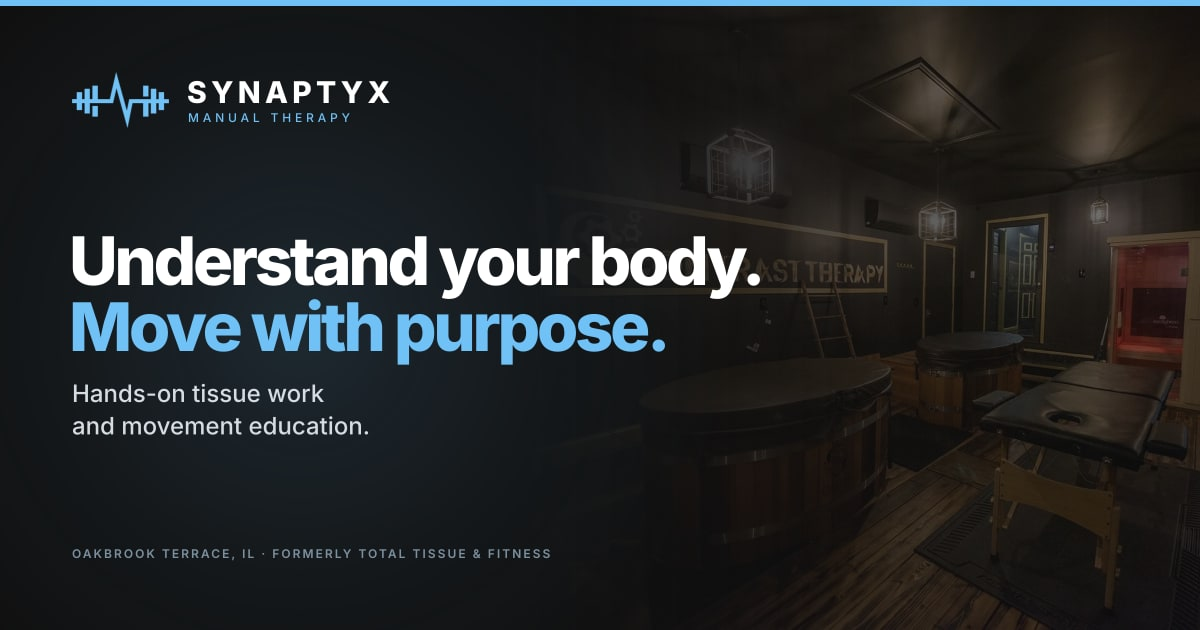
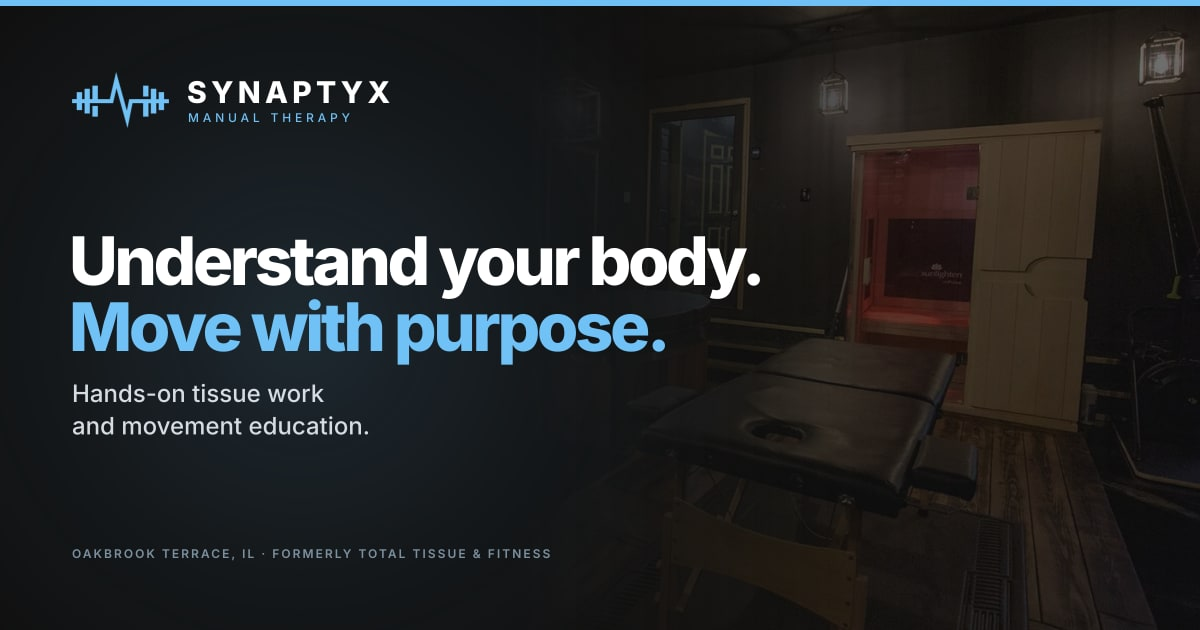
Give Manual Therapy its own treatment-table photo
- Crop the recovery-space photo to the treatment table (no wall sign) for the Manual Therapy service card, page header, and link card
- Move the Contrast Therapy sign photo to the Contrast Therapy service card

diff --git a/src/data/site.ts b/src/data/site.ts
@@ -38,6 +38,7 @@ export const media = {
   socialMentorship: '/images/synaptyx/social-mentorship.jpg',
   socialBook: '/images/synaptyx/social-book.jpg',
   facility: '/images/optimized/recovery-space.webp',
+  treatmentTable: '/images/optimized/treatment-table.webp',
   plunge: '/images/optimized/plunge.webp',
   sauna: '/images/optimized/sauna.webp',
   poster: '/images/6625ab15d06cde3819d95ae7_jb-total-background-video-poster-00001.jpg',
@@ -60,7 +61,7 @@ export const services = [
     description:
       'Individual assessment, hands-on soft tissue work, and movement education. An approach built around your body and your goals.',
     href: '/manual-therapy/',
-    image: media.facility,
+    image: media.treatmentTable,
     tags: ['Soft tissue work', 'Movement education'],
   },
   {
@@ -71,7 +72,7 @@ export const services = [
     description:
       'Cold plunge, hot plunge, and infrared sauna in our Oakbrook Terrace recovery space. A dedicated hour to complement your tissue work.',
     href: '/contrast-therapy/',
-    image: media.sauna,
+    image: media.facility,
     tags: ['Cold plunge', 'Hot plunge', 'Infrared sauna'],
   },
   {

diff --git a/docs/CONTENT_SOURCE_MAP.md b/docs/CONTENT_SOURCE_MAP.md
@@ -2,54 +2,54 @@
 
 This file separates evidence from editorial decisions. “Captured” means present in the September 8, 2026 Webflow snapshot; it does not mean approved for launch.
 
-| Target content key                        | Target surface                       | Captured source                                                                  | Status / editorial instruction                                                                                 | Owner approval needed                   |
-| ----------------------------------------- | ------------------------------------ | -------------------------------------------------------------------------------- | -------------------------------------------------------------------------------------------------------------- | --------------------------------------- |
-| `site.name`                               | Global                               | User decision 2026-09-08 (ADR-008)                                               | “Synaptyx Manual Therapy”, with “formerly Total Tissue & Fitness” notices                                      | Confirm legal name and footer form      |
-| `site.logo`                               | Header/footer/social                 | Synaptyx mark from synaptyxperformance.com/logo.png                              | Synaptyx mark + “SYNAPTYX / Manual Therapy” lockup; gold logo only as legacy mark                              | Partner approval of lockup and rights   |
-| `site.colors`                             | Global tokens                        | Synaptyx site CSS (`#70c1f6`, `#101010`, `#7c91a0`)                              | Synaptyx blue/near-black/grey; gold retired except in legacy notices                                           | Contrast validated; partner approval    |
-| `site.designReference`                    | Layout/components                    | Synaptyx Health & Performance site                                               | Sibling design system: Inter, blue accent, dark surfaces, compact header lockup                                | Pattern-by-pattern design review        |
-| `site.legacyNotices`                      | Announcement, home, footer, JSON-LD  | User request 2026-09-08                                                          | Keep “formerly Total Tissue & Fitness” notices until the owner retires them                                    | Owner decides retirement date           |
-| `site.location`                           | Global/SEO                           | Owner confirmation 2026-09-22; public Vagaro listing                             | Oakbrook Terrace visit location; Oswego is billing only                                                        | Confirm suite/arrival details           |
-| `site.address`, `site.phone`              | Booking/contact/structured data      | Owner-confirmed address; public Vagaro listing                                   | 17W755 Butterfield Road, Oakbrook Terrace, IL 60181; public business phone                                     | Owner verifies before production        |
-| `booking.widgetHtml`                      | `/book/`                             | Regenerated in the Synaptyx Manual Therapy Vagaro account 2026-09-22             | Business-wide embed; Services, Gift Cards, Book Now; Josh and Casey by service                                 | Regenerate when widget settings change  |
-| `booking.about`, `booking.staff`          | `/book/` secondary Vagaro links      | Public Vagaro About and Staff sections verified 2026-09-22                       | Small links to practice and provider information after the widget                                              | Review public profiles before launch    |
-| `booking.giftCards`                       | `/book/` Vagaro widget               | Public Vagaro Gift Cards section and widget builder 2026-09-22                   | Gift Cards tab inside embedded widget; no duplicate link card                                                  | Review card designs, values, terms      |
-| `booking.businessLogo`                    | Vagaro listing and widget            | Existing Synaptyx mark and Inter wordmark; Vagaro gallery upload 2026-09-22      | Dark 1200 × 800 Synaptyx logo set as Vagaro business LOGO                                                      | Synaptyx mark approval before launch    |
-| `booking.buttonColor`                     | Vagaro widget                        | Vagaro widget builder 2026-09-22                                                 | Existing custom `#70C1F6` matches site accent                                                                  | Review if site palette changes          |
-| `booking.services`                        | Booking fallback                     | Public Vagaro `/services` verified 2026-09-22                                    | Direct link if widget unavailable; no duplicate Services card                                                  | Review service menu and prices          |
-| `booking.newClient`                       | First-visit notice/FAQ               | Owner decision and updated Vagaro first-session listing 2026-09-22               | Schedule call using Vagaro's contact instructions, then book in Vagaro                                         | Review eligibility rules                |
-| `booking.contrastFirst`                   | Contrast page                        | Legacy Calendly URL with stale month query                                       | No longer a visitor CTA; use Vagaro booking options                                                            | Confirm dedicated service if needed     |
-| `booking.couplesWorkshop`                 | Workshop                             | Legacy Calendly `contrast-therapy-clone` with naming mismatch                    | Remains out of visitor CTAs; call public business phone                                                        | Confirm active offer and URL            |
-| `services.manualTherapy.summary`          | Home + Manual Therapy                | Two overlapping home descriptions                                                | Consolidate; preserve education/biomechanics focus                                                             | Practitioner review                     |
-| `services.manualTherapy.techniques`       | Manual Therapy                       | Differing captured technique lists                                               | Store as structured list; publish only approved names                                                          | Practitioner review                     |
-| `services.manualTherapy.includedContrast` | Manual Therapy/FAQ                   | “each client receives one hour...”                                               | Clarify whether universal, per-session, and included in price                                                  | Operations                              |
-| `services.contrast.summary`               | Home/Contrast                        | Contrast page content                                                            | Retain three-stage experience                                                                                  | Practitioner review                     |
-| `services.contrast.benefits`              | Contrast                             | Metabolism, mental fortitude, physical recovery                                  | Rewrite cautiously and substantiate                                                                            | Practitioner/legal review               |
-| `services.contrast.steps`                 | Contrast                             | Cold plunge, hot plunge, infrared sauna                                          | Retain with approved terminology and safety context                                                            | Practitioner review                     |
-| `services[].image`                        | Home service cards                   | Existing local media (`media.facility`, `media.sauna`, `media.mentorshipPoster`) | Decorative image bands (empty alt); root-relative, rendered through `withBase`                                 | Owner review of mentorship poster use   |
-| `mentorship.audience`                     | Home/Mentorship                      | PTs, manual therapists, fitness professionals                                    | Retain                                                                                                         | Program owner                           |
-| `mentorship.curriculum`                   | Home/Mentorship                      | Soft tissue, biomechanics, recovery, contrast protocols                          | Condense and correct; no new promises                                                                          | Program owner                           |
-| `mentorship.form`                         | Mentorship                           | Name, email, profession, message, terms checkbox                                 | Vagaro lists a bookable consultation; general questions use the verified contact form                          | Privacy/legal + recipient               |
-| `workshop.couples`                        | Home or Workshop                     | Package, 3–4 hours, $1,200/couple                                                | Draft only; correct suspected typos after confirmation                                                         | Offer, price, contents                  |
-| `testimonials.john`                       | Home                                 | Short quote; empty video container                                               | Keep quote only if permission; find video or omit empty UI                                                     | Consent/attribution                     |
-| `testimonials.mike`                       | Home                                 | Short quote + YouTube `KmQdSmb7iec`                                              | Verify identity/consent and video ownership                                                                    | Consent/attribution                     |
-| `testimonials.amanda`                     | Home                                 | “No more pain!”; empty video container                                           | Omitted from the site (2026-09-08) until the outcome claim is reviewed                                         | Consent/claim review                    |
-| `faq.partnerLocation`                     | FAQ                                  | Earlier partner-location assumption                                              | Removed after owner confirmed this practice's Oakbrook Terrace visit address                                   | Confirm sister-company venue details    |
-| `techniques.flossing`                     | Manual Therapy, Mentorship, Workshop | Source reads “voodoo flossing” (home copy) and “voo doo bangs” (workshop list)   | Published as “Voodoo flossing” / “Floss bands”; practitioner must confirm both                                 | Practitioner confirmation               |
-| `testimonials.gallery`                    | Home                                 | Nine downloaded WebP images                                                      | Inspect, rename, document subjects, and write alt text                                                         | Rights + alt facts                      |
-| `faq.location`                            | Global/Contact                       | Owner confirmation and public Vagaro listing 2026-09-22                          | Use Oakbrook Terrace visit address; billing address is not shown                                               | Arrival details                         |
-| `faq.frequency`                           | FAQ                                  | Age-based intervals                                                              | Hold until practitioner approves or replaces                                                                   | Practitioner review                     |
-| `faq.conditions`                          | FAQ                                  | Sciatica, plantar fasciitis, pelvic floor, hypermobility claims                  | Rewrite to avoid diagnosis/outcome promises                                                                    | Practitioner/legal review               |
-| `social.*`                                | Header/footer                        | None captured                                                                    | Leave absent until supplied                                                                                    | URLs                                    |
-| `contact.form`                            | Contact                              | User request 2026-09-22; Joshua-owned Google Form and Cloudflare account         | Five general-inquiry fields verified by Turnstile/Worker and sent to Google Forms; no sensitive health details | Owner retention, deletion, response SLA |
-| `contact.*`                               | Contact/footer                       | Owner confirmation and public Vagaro listing 2026-09-22                          | Use confirmed phone and visit address; no public email published                                               | Hours and privacy contact               |
-| `legal.privacy`                           | Footer/form                          | No approved policy captured                                                      | Factual inquiry data-flow notice; full policy remains a production gate                                        | Approved policy URL/text                |
-| `legal.terms`                             | Footer/form                          | Form link points to `#`                                                          | Replace with real route or remove checkbox per approved design                                                 | Approved terms                          |
+| Target content key                        | Target surface                       | Captured source                                                                           | Status / editorial instruction                                                                                                                | Owner approval needed                   |
+| ----------------------------------------- | ------------------------------------ | ----------------------------------------------------------------------------------------- | --------------------------------------------------------------------------------------------------------------------------------------------- | --------------------------------------- |
+| `site.name`                               | Global                               | User decision 2026-09-08 (ADR-008)                                                        | “Synaptyx Manual Therapy”, with “formerly Total Tissue & Fitness” notices                                                                     | Confirm legal name and footer form      |
+| `site.logo`                               | Header/footer/social                 | Synaptyx mark from synaptyxperformance.com/logo.png                                       | Synaptyx mark + “SYNAPTYX / Manual Therapy” lockup; gold logo only as legacy mark                                                             | Partner approval of lockup and rights   |
+| `site.colors`                             | Global tokens                        | Synaptyx site CSS (`#70c1f6`, `#101010`, `#7c91a0`)                                       | Synaptyx blue/near-black/grey; gold retired except in legacy notices                                                                          | Contrast validated; partner approval    |
+| `site.designReference`                    | Layout/components                    | Synaptyx Health & Performance site                                                        | Sibling design system: Inter, blue accent, dark surfaces, compact header lockup                                                               | Pattern-by-pattern design review        |
+| `site.legacyNotices`                      | Announcement, home, footer, JSON-LD  | User request 2026-09-08                                                                   | Keep “formerly Total Tissue & Fitness” notices until the owner retires them                                                                   | Owner decides retirement date           |
+| `site.location`                           | Global/SEO                           | Owner confirmation 2026-09-22; public Vagaro listing                                      | Oakbrook Terrace visit location; Oswego is billing only                                                                                       | Confirm suite/arrival details           |
+| `site.address`, `site.phone`              | Booking/contact/structured data      | Owner-confirmed address; public Vagaro listing                                            | 17W755 Butterfield Road, Oakbrook Terrace, IL 60181; public business phone                                                                    | Owner verifies before production        |
+| `booking.widgetHtml`                      | `/book/`                             | Regenerated in the Synaptyx Manual Therapy Vagaro account 2026-09-22                      | Business-wide embed; Services, Gift Cards, Book Now; Josh and Casey by service                                                                | Regenerate when widget settings change  |
+| `booking.about`, `booking.staff`          | `/book/` secondary Vagaro links      | Public Vagaro About and Staff sections verified 2026-09-22                                | Small links to practice and provider information after the widget                                                                             | Review public profiles before launch    |
+| `booking.giftCards`                       | `/book/` Vagaro widget               | Public Vagaro Gift Cards section and widget builder 2026-09-22                            | Gift Cards tab inside embedded widget; no duplicate link card                                                                                 | Review card designs, values, terms      |
+| `booking.businessLogo`                    | Vagaro listing and widget            | Existing Synaptyx mark and Inter wordmark; Vagaro gallery upload 2026-09-22               | Dark 1200 × 800 Synaptyx logo set as Vagaro business LOGO                                                                                     | Synaptyx mark approval before launch    |
+| `booking.buttonColor`                     | Vagaro widget                        | Vagaro widget builder 2026-09-22                                                          | Existing custom `#70C1F6` matches site accent                                                                                                 | Review if site palette changes          |
+| `booking.services`                        | Booking fallback                     | Public Vagaro `/services` verified 2026-09-22                                             | Direct link if widget unavailable; no duplicate Services card                                                                                 | Review service menu and prices          |
+| `booking.newClient`                       | First-visit notice/FAQ               | Owner decision and updated Vagaro first-session listing 2026-09-22                        | Schedule call using Vagaro's contact instructions, then book in Vagaro                                                                        | Review eligibility rules                |
+| `booking.contrastFirst`                   | Contrast page                        | Legacy Calendly URL with stale month query                                                | No longer a visitor CTA; use Vagaro booking options                                                                                           | Confirm dedicated service if needed     |
+| `booking.couplesWorkshop`                 | Workshop                             | Legacy Calendly `contrast-therapy-clone` with naming mismatch                             | Remains out of visitor CTAs; call public business phone                                                                                       | Confirm active offer and URL            |
+| `services.manualTherapy.summary`          | Home + Manual Therapy                | Two overlapping home descriptions                                                         | Consolidate; preserve education/biomechanics focus                                                                                            | Practitioner review                     |
+| `services.manualTherapy.techniques`       | Manual Therapy                       | Differing captured technique lists                                                        | Store as structured list; publish only approved names                                                                                         | Practitioner review                     |
+| `services.manualTherapy.includedContrast` | Manual Therapy/FAQ                   | “each client receives one hour...”                                                        | Clarify whether universal, per-session, and included in price                                                                                 | Operations                              |
+| `services.contrast.summary`               | Home/Contrast                        | Contrast page content                                                                     | Retain three-stage experience                                                                                                                 | Practitioner review                     |
+| `services.contrast.benefits`              | Contrast                             | Metabolism, mental fortitude, physical recovery                                           | Rewrite cautiously and substantiate                                                                                                           | Practitioner/legal review               |
+| `services.contrast.steps`                 | Contrast                             | Cold plunge, hot plunge, infrared sauna                                                   | Retain with approved terminology and safety context                                                                                           | Practitioner review                     |
+| `services[].image`                        | Home service cards                   | Existing local media (`media.treatmentTable`, `media.facility`, `media.mentorshipPoster`) | Decorative image bands (empty alt); the Contrast Therapy sign photo stays with Contrast Therapy; Manual Therapy uses the treatment-table crop | Owner review of mentorship poster use   |
+| `mentorship.audience`                     | Home/Mentorship                      | PTs, manual therapists, fitness professionals                                             | Retain                                                                                                                                        | Program owner                           |
+| `mentorship.curriculum`                   | Home/Mentorship                      | Soft tissue, biomechanics, recovery, contrast protocols                                   | Condense and correct; no new promises                                                                                                         | Program owner                           |
+| `mentorship.form`                         | Mentorship                           | Name, email, profession, message, terms checkbox                                          | Vagaro lists a bookable consultation; general questions use the verified contact form                                                         | Privacy/legal + recipient               |
+| `workshop.couples`                        | Home or Workshop                     | Package, 3–4 hours, $1,200/couple                                                         | Draft only; correct suspected typos after confirmation                                                                                        | Offer, price, contents                  |
+| `testimonials.john`                       | Home                                 | Short quote; empty video container                                                        | Keep quote only if permission; find video or omit empty UI                                                                                    | Consent/attribution                     |
+| `testimonials.mike`                       | Home                                 | Short quote + YouTube `KmQdSmb7iec`                                                       | Verify identity/consent and video ownership                                                                                                   | Consent/attribution                     |
+| `testimonials.amanda`                     | Home                                 | “No more pain!”; empty video container                                                    | Omitted from the site (2026-09-08) until the outcome claim is reviewed                                                                        | Consent/claim review                    |
+| `faq.partnerLocation`                     | FAQ                                  | Earlier partner-location assumption                                                       | Removed after owner confirmed this practice's Oakbrook Terrace visit address                                                                  | Confirm sister-company venue details    |
+| `techniques.flossing`                     | Manual Therapy, Mentorship, Workshop | Source reads “voodoo flossing” (home copy) and “voo doo bangs” (workshop list)            | Published as “Voodoo flossing” / “Floss bands”; practitioner must confirm both                                                                | Practitioner confirmation               |
+| `testimonials.gallery`                    | Home                                 | Nine downloaded WebP images                                                               | Inspect, rename, document subjects, and write alt text                                                                                        | Rights + alt facts                      |
+| `faq.location`                            | Global/Contact                       | Owner confirmation and public Vagaro listing 2026-09-22                                   | Use Oakbrook Terrace visit address; billing address is not shown                                                                              | Arrival details                         |
+| `faq.frequency`                           | FAQ                                  | Age-based intervals                                                                       | Hold until practitioner approves or replaces                                                                                                  | Practitioner review                     |
+| `faq.conditions`                          | FAQ                                  | Sciatica, plantar fasciitis, pelvic floor, hypermobility claims                           | Rewrite to avoid diagnosis/outcome promises                                                                                                   | Practitioner/legal review               |
+| `social.*`                                | Header/footer                        | None captured                                                                             | Leave absent until supplied                                                                                                                   | URLs                                    |
+| `contact.form`                            | Contact                              | User request 2026-09-22; Joshua-owned Google Form and Cloudflare account                  | Five general-inquiry fields verified by Turnstile/Worker and sent to Google Forms; no sensitive health details                                | Owner retention, deletion, response SLA |
+| `contact.*`                               | Contact/footer                       | Owner confirmation and public Vagaro listing 2026-09-22                                   | Use confirmed phone and visit address; no public email published                                                                              | Hours and privacy contact               |
+| `legal.privacy`                           | Footer/form                          | No approved policy captured                                                               | Factual inquiry data-flow notice; full policy remains a production gate                                                                       | Approved policy URL/text                |
+| `legal.terms`                             | Footer/form                          | Form link points to `#`                                                                   | Replace with real route or remove checkbox per approved design                                                                                | Approved terms                          |
 
 ## Media mapping
 
 - Original gold Total Tissue logos and favicon: retained as archived legacy assets, not the current identity. The logo also has a lossless WebP derivative.
-- Synaptyx mark and Inter wordmark: used for the current site identity, the Vagaro business logo (`public/images/synaptyx/vagaro-business-logo.png`), and the social sharing cards generated by `scripts/make-social-cards.mjs` (`npm run images:social`): `public/images/synaptyx/social-card.jpg` (default, plus `social-card-square.jpg` 1080 × 1080), `social-manual-therapy.jpg`, `social-contrast-therapy.jpg`, `social-mentorship.jpg` and `social-book.jpg`. Card copy is reused from existing page copy; photos are the existing recovery-space, plunge, sauna and mentorship-poster assets.
+- Synaptyx mark and Inter wordmark: used for the current site identity, the Vagaro business logo (`public/images/synaptyx/vagaro-business-logo.png`), and the social sharing cards generated by `scripts/make-social-cards.mjs` (`npm run images:social`): `public/images/synaptyx/social-card.jpg` (default, plus `social-card-square.jpg` 1080 × 1080), `social-manual-therapy.jpg`, `social-contrast-therapy.jpg`, `social-mentorship.jpg` and `social-book.jpg`. Card copy is reused from existing page copy; photos are the existing recovery-space, plunge, sauna and mentorship-poster assets, plus `optimized/treatment-table.webp`, a crop of the recovery-space photo without the wall sign (made by `scripts/optimize-images.mjs`) used for Manual Therapy.
 - Hero background video: in use on the home hero (2026-09-08) as re-encoded `public/media/optimized/hero-loop.{mp4,webm}` (1280×720, silent, ~2 MB / ~1.4 MB) with the captured poster. Muted, looping, inline, paused for reduced-motion/Save-Data, and has a visible pause control. The original transcodes remain for the click-to-play facility tour. Rights confirmation still pending.
 - Nine gallery WebPs: candidate testimonial/proof gallery; inspect before assigning names or alt text.
 - Three `EGC_*.jpg` images: captured on Contrast Therapy page; candidate service gallery.

diff --git a/CHANGELOG.md b/CHANGELOG.md
@@ -2,6 +2,7 @@
 
 ## 2026-09-22 — Link-preview cards
 
+- Manual Therapy now uses a treatment-table crop (`optimized/treatment-table.webp`) on its service card, page header and link card; the Contrast Therapy sign photo moves to the Contrast Therapy service card.
 - Shared links now show a designed Synaptyx preview card, with page-specific cards for Manual Therapy, Contrast Therapy, Mentorship and Booking, plus a square version of the main card for manual posting.
 
 ## 2026-09-22 — Engagement pass
